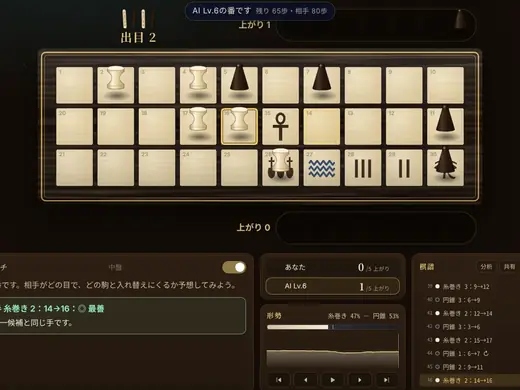
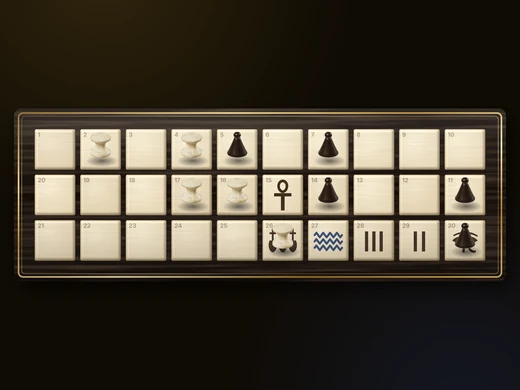
Portal 3D: light depth of field beyond the board (PC); Senet game-list thumbnail = board only; addendum: update top-page and game-list shots together
Claude-Session: https://claude.ai/code/session_019p8B6UWR1udoEs1Nsr5TaD

diff --git a/atlas/table3d.js b/atlas/table3d.js
@@ -1884,7 +1884,65 @@
       quietKey = kq; dirty = false;
     } else if (!moving && !dirty && now > kickUntil) return more();   // nothing changed: no frame (the showcase's turntable counts as moving)
     R.render(scene, cam); lastDraw = now; if (now > kickUntil) dirty = false;
+    if (DOF_OK && mode === 'view' && !museumOn && !quietOn) dof();
     return more();
+  }
+  /* ---------- a light depth of field (PC, the portal's room): what lies beyond the board goes softly out of focus ----------
+     No second scene render: the finished frame is copied (copyFramebufferToTexture), blurred at half size in two passes
+     (9 taps each) and laid back over the frame with a mask — clear on the board and in front of it, blurring in above the
+     board's far edge (farther away in this slanted view) and a little toward the sides. Costs a copy and three cheap
+     full-screen passes on the frames that are drawn anyway (the renderer stays on demand). Off on touch / lite devices. */
+  const DOF_OK = !COARSE && !LITE && !/[?&]nodof\b/.test(location.search);
+  let dofS = null;
+  function dofInit(w, h) {
+    const TT = T();
+    if (dofS && dofS.w === w && dofS.h === h) return dofS;
+    if (dofS) { dofS.tex.dispose(); dofS.a.dispose(); dofS.b.dispose(); }
+    const tex = new TT.DataTexture(null, w, h, TT.RGBAFormat); tex.minFilter = tex.magFilter = TT.LinearFilter; tex.generateMipmaps = false;
+    const o = { minFilter: TT.LinearFilter, magFilter: TT.LinearFilter, depthBuffer: false, stencilBuffer: false };
+    const hw = Math.max(1, w >> 1), hh = Math.max(1, h >> 1), a = new TT.WebGLRenderTarget(hw, hh, o), b = new TT.WebGLRenderTarget(hw, hh, o);
+    if (!dofS) {
+      const vs = 'varying vec2 vUv; void main(){ vUv = uv; gl_Position = vec4(position.xy, 0., 1.); }';
+      const blur = new TT.ShaderMaterial({ uniforms: { t: { value: null }, d: { value: new TT.Vector2() } }, vertexShader: vs, depthTest: false, depthWrite: false,
+        fragmentShader: 'uniform sampler2D t; uniform vec2 d; varying vec2 vUv; void main(){ vec4 c = texture2D(t, vUv) * .2270; '
+          + 'c += (texture2D(t, vUv + d * 1.3846) + texture2D(t, vUv - d * 1.3846)) * .3162; c += (texture2D(t, vUv + d * 3.2308) + texture2D(t, vUv - d * 3.2308)) * .0703; gl_FragColor = c; }' });
+      const mix = new TT.ShaderMaterial({ uniforms: { t: { value: null }, top: { value: .6 }, cx: { value: 0 }, amt: { value: .85 } }, vertexShader: vs, depthTest: false, depthWrite: false, transparent: true,
+        fragmentShader: 'uniform sampler2D t; uniform float top, cx, amt; varying vec2 vUv; void main(){ vec2 p = vUv * 2. - 1.; '
+          + 'float m = smoothstep(top - .06, top + .34, p.y);'                       // above the board's far edge
+          + 'm = max(m, smoothstep(.62, 1.05, abs(p.x - cx)) * .55 * smoothstep(top - .9, top, p.y));'   // a little toward the far sides
+          + 'gl_FragColor = vec4(texture2D(t, vUv).rgb, m * amt); }' });
+      blur.toneMapped = mix.toneMapped = false;
+      const quad = new TT.Mesh(new TT.PlaneGeometry(2, 2), blur); quad.frustumCulled = false;
+      const qs = new TT.Scene(); qs.add(quad);
+      dofS = { blur, mix, quad, qs, qc: new TT.OrthographicCamera(-1, 1, 1, -1, 0, 1), box: new TT.Box3(), v: new TT.Vector3() };
+    }
+    Object.assign(dofS, { w, h, tex, a, b });
+    return dofS;
+  }
+  const _dsz = { x: 0, y: 0 };
+  function dof() {
+    try {
+      const TT = T(), sz = R.getDrawingBufferSize(new TT.Vector2()), w = sz.x, h = sz.y; if (w < 8 || h < 8) return;
+      const D = dofInit(w, h);
+      // the board's far edge on screen (NDC y): the focus ends there
+      let top = .55, cx = 0;
+      if (cur) {
+        D.box.setFromObject(cur); if (!D.box.isEmpty()) {
+          let y1 = -2, x0 = 2, x1 = -2;
+          for (let i = 0; i < 8; i++) { D.v.set(i & 1 ? D.box.max.x : D.box.min.x, i & 2 ? D.box.max.y : D.box.min.y, i & 4 ? D.box.max.z : D.box.min.z).project(cam); y1 = Math.max(y1, D.v.y); x0 = Math.min(x0, D.v.x); x1 = Math.max(x1, D.v.x); }
+          top = Math.min(.95, Math.max(-.6, y1)); cx = (x0 + x1) / 2;
+        }
+      }
+      R.copyFramebufferToTexture(new TT.Vector2(0, 0), D.tex);
+      const at = R.autoClear, rt = R.getRenderTarget(); R.autoClear = false;
+      D.quad.material = D.blur;
+      D.blur.uniforms.t.value = D.tex; D.blur.uniforms.d.value.set(1.6 / w, 0); R.setRenderTarget(D.a); R.render(D.qs, D.qc);
+      D.blur.uniforms.t.value = D.a.texture; D.blur.uniforms.d.value.set(0, 1.6 / D.a.height); R.setRenderTarget(D.b); R.render(D.qs, D.qc);
+      D.blur.uniforms.t.value = D.b.texture; D.blur.uniforms.d.value.set(1.6 / D.a.width, 0); R.setRenderTarget(D.a); R.render(D.qs, D.qc);   // (a second round: softer, still light)
+      D.blur.uniforms.t.value = D.a.texture; D.blur.uniforms.d.value.set(0, 1.6 / D.a.height); R.setRenderTarget(D.b); R.render(D.qs, D.qc);
+      D.quad.material = D.mix; D.mix.uniforms.t.value = D.b.texture; D.mix.uniforms.top.value = top; D.mix.uniforms.cx.value = cx;
+      R.setRenderTarget(rt); R.render(D.qs, D.qc); R.autoClear = at;
+    } catch (e) { console.warn('[table3d] dof', e); }
   }
   const _fr = { f: null, m: null };
   function tickSeen() {

diff --git a/dots/index.html b/dots/index.html
@@ -2289,7 +2289,7 @@ document.querySelector('#rsResume').onclick = () => { document.querySelector('#r
   const f = document.createElement('link'); f.rel = 'stylesheet'; f.href = 'https://fonts.googleapis.com/css2?family=RocknRoll+One&family=Zen+Maru+Gothic:wght@500;700;900&family=Fredoka:wght@600;700&family=Kalam:wght@400;700&family=Zen+Kurenaido&family=Nanum+Pen+Script&family=Long+Cang&family=Aref+Ruqaa:wght@700&display=swap'; document.head.appendChild(f);   // (Kalam … Aref Ruqaa: the handwritten box initials and tally on the notebook page)
   const load = src => new Promise((res, rej) => { const s = document.createElement('script'); s.src = src; s.onload = res; s.onerror = rej; document.body.appendChild(s); });
   if (window.AtlasLoading) { AtlasLoading.show(); setTimeout(() => AtlasLoading.hide(), 12000); }   // safety net
-  load('https://cdnjs.cloudflare.com/ajax/libs/three.js/r128/three.min.js').then(() => load('../atlas/table3d.js?v=108l14')).then(() => load('../atlas/tables3d.js?v=10l14')).then(() => load('../atlas/skin/common.js?v=30l14')).then(() => load('../atlas/models/dots.js?v=3l14')).then(() => load('../atlas/skin/dots.js?v=7l14'))
+  load('https://cdnjs.cloudflare.com/ajax/libs/three.js/r128/three.min.js').then(() => load('../atlas/table3d.js?v=109l14')).then(() => load('../atlas/tables3d.js?v=10l14')).then(() => load('../atlas/skin/common.js?v=30l14')).then(() => load('../atlas/models/dots.js?v=3l14')).then(() => load('../atlas/skin/dots.js?v=7l14'))
     .catch(() => { document.documentElement.classList.remove('atlas-skin'); if (window.AtlasLoading) AtlasLoading.hide(); });
 })();
 </script>

diff --git a/ur/index.html b/ur/index.html
@@ -1027,7 +1027,7 @@ html:not([lang=ja]):not([lang=zh]):not([lang="zh-TW"]):not([lang=ko]) .result-bi
   const f = document.createElement('link'); f.rel = 'stylesheet'; f.href = 'https://fonts.googleapis.com/css2?family=RocknRoll+One&family=Zen+Maru+Gothic:wght@500;700;900&family=Fredoka:wght@600;700&display=swap'; document.head.appendChild(f);
   const load = src => new Promise((res, rej) => { const s = document.createElement('script'); s.src = src; s.onload = res; s.onerror = rej; document.body.appendChild(s); });
   if (window.AtlasLoading) { AtlasLoading.show(); setTimeout(() => AtlasLoading.hide(), 12000); }   // safety net
-  load('https://cdnjs.cloudflare.com/ajax/libs/three.js/r128/three.min.js').then(() => load('../atlas/table3d.js?v=108l14')).then(() => load('../atlas/tables3d.js?v=10l14')).then(() => load('../atlas/skin/common.js?v=30l14')).then(() => load('../atlas/models/ur-dice.js?v=2l14')).then(() => load('../atlas/models/ur.js?v=3l14')).then(() => load('../atlas/skin/ur.js?v=14l14'))
+  load('https://cdnjs.cloudflare.com/ajax/libs/three.js/r128/three.min.js').then(() => load('../atlas/table3d.js?v=109l14')).then(() => load('../atlas/tables3d.js?v=10l14')).then(() => load('../atlas/skin/common.js?v=30l14')).then(() => load('../atlas/models/ur-dice.js?v=2l14')).then(() => load('../atlas/models/ur.js?v=3l14')).then(() => load('../atlas/skin/ur.js?v=14l14'))
     .catch(() => { const u = new URL(location.href); u.searchParams.delete('skin'); location.replace(u.href); });   // (the 3D files are missing: the plain 2D page)
 })();
 </script>

diff --git a/connect4/index.html b/connect4/index.html
@@ -3329,7 +3329,7 @@ document.addEventListener('keydown', e => {
   const f = document.createElement('link'); f.rel = 'stylesheet'; f.href = 'https://fonts.googleapis.com/css2?family=RocknRoll+One&family=Zen+Maru+Gothic:wght@500;700;900&family=Fredoka:wght@600;700&display=swap'; document.head.appendChild(f);
   const load = src => new Promise((res, rej) => { const s = document.createElement('script'); s.src = src; s.onload = res; s.onerror = rej; document.body.appendChild(s); });
   if (window.AtlasLoading) { AtlasLoading.show(); setTimeout(() => AtlasLoading.hide(), 12000); }   // safety net
-  load('https://cdnjs.cloudflare.com/ajax/libs/three.js/r128/three.min.js').then(() => load('../atlas/table3d.js?v=108l14')).then(() => load('../atlas/tables3d.js?v=10l14')).then(() => load('../atlas/skin/common.js?v=30l14')).then(() => load('../atlas/models/connect4.js?v=3l14')).then(() => load('../atlas/games/connect4-tiles.js?v=1l14')).then(() => load('../atlas/skin/connect4.js?v=6l14'))
+  load('https://cdnjs.cloudflare.com/ajax/libs/three.js/r128/three.min.js').then(() => load('../atlas/table3d.js?v=109l14')).then(() => load('../atlas/tables3d.js?v=10l14')).then(() => load('../atlas/skin/common.js?v=30l14')).then(() => load('../atlas/models/connect4.js?v=3l14')).then(() => load('../atlas/games/connect4-tiles.js?v=1l14')).then(() => load('../atlas/skin/connect4.js?v=6l14'))
     .catch(() => { document.documentElement.classList.remove('atlas-skin'); if (window.AtlasLoading) AtlasLoading.hide(); });
 })();
 </script>

diff --git a/morris/index.html b/morris/index.html
@@ -3772,7 +3772,7 @@ window.addEventListener('resize', () => renderFx());
   const f = document.createElement('link'); f.rel = 'stylesheet'; f.href = 'https://fonts.googleapis.com/css2?family=RocknRoll+One&family=Zen+Maru+Gothic:wght@500;700;900&family=Fredoka:wght@600;700&display=swap'; document.head.appendChild(f);
   const load = src => new Promise((res, rej) => { const s = document.createElement('script'); s.src = src; s.onload = res; s.onerror = rej; document.body.appendChild(s); });
   if (window.AtlasLoading) { AtlasLoading.show(); setTimeout(() => AtlasLoading.hide(), 12000); }   // safety net
-  load('https://cdnjs.cloudflare.com/ajax/libs/three.js/r128/three.min.js').then(() => load('../atlas/table3d.js?v=108l14')).then(() => load('../atlas/tables3d.js?v=10l14')).then(() => load('../atlas/skin/common.js?v=30l14')).then(() => load('../atlas/models/morris.js?v=5l14')).then(() => load('../atlas/games/morris-pieces.js?v=2l14')).then(() => load('../atlas/skin/morris.js?v=6l14'))
+  load('https://cdnjs.cloudflare.com/ajax/libs/three.js/r128/three.min.js').then(() => load('../atlas/table3d.js?v=109l14')).then(() => load('../atlas/tables3d.js?v=10l14')).then(() => load('../atlas/skin/common.js?v=30l14')).then(() => load('../atlas/models/morris.js?v=5l14')).then(() => load('../atlas/games/morris-pieces.js?v=2l14')).then(() => load('../atlas/skin/morris.js?v=6l14'))
     .catch(() => { document.documentElement.classList.remove('atlas-skin'); if (window.AtlasLoading) AtlasLoading.hide(); });
 })();
 </script>

diff --git a/senet/index.html b/senet/index.html
@@ -1018,7 +1018,7 @@ html:not([lang=ja]):not([lang=zh]):not([lang=zh-TW]):not([lang=ko]) .result-big{
   const f = document.createElement('link'); f.rel = 'stylesheet'; f.href = 'https://fonts.googleapis.com/css2?family=RocknRoll+One&family=Zen+Maru+Gothic:wght@500;700;900&family=Fredoka:wght@600;700&display=swap'; document.head.appendChild(f);
   const load = src => new Promise((res, rej) => { const s = document.createElement('script'); s.src = src; s.onload = res; s.onerror = rej; document.body.appendChild(s); });
   if (window.AtlasLoading) { AtlasLoading.show(); setTimeout(() => AtlasLoading.hide(), 12000); }   // safety net
-  load('https://cdnjs.cloudflare.com/ajax/libs/three.js/r128/three.min.js').then(() => load('../atlas/table3d.js?v=108l14')).then(() => load('../atlas/tables3d.js?v=10l14')).then(() => load('../atlas/skin/common.js?v=30l14')).then(() => load('../atlas/models/senet.js?v=5l14')).then(() => load('../atlas/skin/senet.js?v=3l14'))
+  load('https://cdnjs.cloudflare.com/ajax/libs/three.js/r128/three.min.js').then(() => load('../atlas/table3d.js?v=109l14')).then(() => load('../atlas/tables3d.js?v=10l14')).then(() => load('../atlas/skin/common.js?v=30l14')).then(() => load('../atlas/models/senet.js?v=5l14')).then(() => load('../atlas/skin/senet.js?v=3l14'))
     .catch(() => { const u = new URL(location.href); u.searchParams.delete('skin'); location.replace(u.href); });   // (the 3D files are missing: the plain 2D page)
 })();
 </script>

diff --git a/fanorona/index.html b/fanorona/index.html
@@ -1685,7 +1685,7 @@ body.lt-on .reserve .onb.on{border-color:var(--accent);box-shadow:0 0 0 1px var(
   const f = document.createElement('link'); f.rel = 'stylesheet'; f.href = 'https://fonts.googleapis.com/css2?family=RocknRoll+One&family=Zen+Maru+Gothic:wght@500;700;900&family=Fredoka:wght@600;700&display=swap'; document.head.appendChild(f);
   const load = src => new Promise((res, rej) => { const s = document.createElement('script'); s.src = src; s.onload = res; s.onerror = rej; document.body.appendChild(s); });
   if (window.AtlasLoading) { AtlasLoading.show(); setTimeout(() => AtlasLoading.hide(), 12000); }   // safety net
-  load('https://cdnjs.cloudflare.com/ajax/libs/three.js/r128/three.min.js').then(() => load('../atlas/table3d.js?v=108l14')).then(() => load('../atlas/tables3d.js?v=10l14')).then(() => load('../atlas/skin/common.js?v=30l14')).then(() => load('../atlas/models/fanorona.js?v=2l14')).then(() => load('../atlas/skin/fanorona.js?v=6l14'))
+  load('https://cdnjs.cloudflare.com/ajax/libs/three.js/r128/three.min.js').then(() => load('../atlas/table3d.js?v=109l14')).then(() => load('../atlas/tables3d.js?v=10l14')).then(() => load('../atlas/skin/common.js?v=30l14')).then(() => load('../atlas/models/fanorona.js?v=2l14')).then(() => load('../atlas/skin/fanorona.js?v=6l14'))
     .catch(() => { document.documentElement.classList.remove('atlas-skin'); if (window.AtlasLoading) AtlasLoading.hide(); });
 })();
 </script>

diff --git a/mancala/index.html b/mancala/index.html
@@ -1584,7 +1584,7 @@ html[data-sk=ocean] .seed{box-shadow:0 calc(var(--u) * .025) calc(var(--u) * .04
   const f = document.createElement('link'); f.rel = 'stylesheet'; f.href = 'https://fonts.googleapis.com/css2?family=RocknRoll+One&family=Zen+Maru+Gothic:wght@500;700;900&family=Fredoka:wght@600;700&display=swap'; document.head.appendChild(f);
   const load = src => new Promise((res, rej) => { const s = document.createElement('script'); s.src = src; s.onload = res; s.onerror = rej; document.body.appendChild(s); });
   if (window.AtlasLoading) { AtlasLoading.show(); setTimeout(() => AtlasLoading.hide(), 12000); }   // safety net
-  load('https://cdnjs.cloudflare.com/ajax/libs/three.js/r128/three.min.js').then(() => load('../atlas/table3d.js?v=108l14')).then(() => load('../atlas/tables3d.js?v=10l14')).then(() => load('../atlas/skin/common.js?v=30l14')).then(() => load('../atlas/models/mancala.js?v=3l14')).then(() => load('../atlas/skin/mancala.js?v=10l14'))
+  load('https://cdnjs.cloudflare.com/ajax/libs/three.js/r128/three.min.js').then(() => load('../atlas/table3d.js?v=109l14')).then(() => load('../atlas/tables3d.js?v=10l14')).then(() => load('../atlas/skin/common.js?v=30l14')).then(() => load('../atlas/models/mancala.js?v=3l14')).then(() => load('../atlas/skin/mancala.js?v=10l14'))
     .catch(() => { document.documentElement.classList.remove('atlas-skin'); if (window.AtlasLoading) AtlasLoading.hide(); });
 })();
 </script>

diff --git a/gomoku/index.html b/gomoku/index.html
@@ -1441,7 +1441,7 @@ body.skin-ink .st.b{background:radial-gradient(circle at 34% 28%,#8a8f98 0%,#3c4
   const f = document.createElement('link'); f.rel = 'stylesheet'; f.href = 'https://fonts.googleapis.com/css2?family=RocknRoll+One&family=Zen+Maru+Gothic:wght@500;700;900&family=Fredoka:wght@600;700&display=swap'; document.head.appendChild(f);
   const load = src => new Promise((res, rej) => { const s = document.createElement('script'); s.src = src; s.onload = res; s.onerror = rej; document.body.appendChild(s); });
   if (window.AtlasLoading) { AtlasLoading.show(); setTimeout(() => AtlasLoading.hide(), 12000); }   // safety net
-  load('https://cdnjs.cloudflare.com/ajax/libs/three.js/r128/three.min.js').then(() => load('../atlas/table3d.js?v=108l14')).then(() => load('../atlas/tables3d.js?v=10l14')).then(() => load('../atlas/skin/common.js?v=30l14')).then(() => load('../atlas/models/goban.js?v=11l14')).then(() => load('../atlas/skin/gomoku.js?v=4l14'))
+  load('https://cdnjs.cloudflare.com/ajax/libs/three.js/r128/three.min.js').then(() => load('../atlas/table3d.js?v=109l14')).then(() => load('../atlas/tables3d.js?v=10l14')).then(() => load('../atlas/skin/common.js?v=30l14')).then(() => load('../atlas/models/goban.js?v=11l14')).then(() => load('../atlas/skin/gomoku.js?v=4l14'))
     .catch(() => { document.documentElement.classList.remove('atlas-skin'); if (window.AtlasLoading) AtlasLoading.hide(); });
 })();
 </script>

diff --git a/shogi/index.html b/shogi/index.html
@@ -5519,7 +5519,7 @@ if (window.Online && Online.available) setInterval(() => { if (dock.on) chatStar
   const f = document.createElement('link'); f.rel = 'stylesheet'; f.href = 'https://fonts.googleapis.com/css2?family=RocknRoll+One&family=Zen+Maru+Gothic:wght@500;700;900&family=Fredoka:wght@600;700&display=swap'; document.head.appendChild(f);
   const load = src => new Promise((res, rej) => { const s = document.createElement('script'); s.src = src; s.onload = res; s.onerror = rej; document.body.appendChild(s); });
   if (window.AtlasLoading) { AtlasLoading.show(); setTimeout(() => AtlasLoading.hide(), 12000); }   // safety net
-  load('https://cdnjs.cloudflare.com/ajax/libs/three.js/r128/three.min.js').then(() => load('../atlas/table3d.js?v=108l14')).then(() => load('../atlas/tables3d.js?v=10l14')).then(() => load('../atlas/skin/common.js?v=30l14')).then(() => load('../atlas/models/shogi.js?v=22l14')).then(() => load('../atlas/skin/shogi.js?v=13l14'))
+  load('https://cdnjs.cloudflare.com/ajax/libs/three.js/r128/three.min.js').then(() => load('../atlas/table3d.js?v=109l14')).then(() => load('../atlas/tables3d.js?v=10l14')).then(() => load('../atlas/skin/common.js?v=30l14')).then(() => load('../atlas/models/shogi.js?v=22l14')).then(() => load('../atlas/skin/shogi.js?v=13l14'))
     .catch(() => { document.documentElement.classList.remove('atlas-skin'); if (window.AtlasLoading) AtlasLoading.hide(); });
 })();
 </script>

diff --git a/ugolki/index.html b/ugolki/index.html
@@ -1389,7 +1389,7 @@ html:is([data-bd=gzhel],[data-bd=birch]) .reserve .rsv-plate .rsv-w:not(.hot) b{
   const f = document.createElement('link'); f.rel = 'stylesheet'; f.href = 'https://fonts.googleapis.com/css2?family=RocknRoll+One&family=Zen+Maru+Gothic:wght@500;700;900&family=Fredoka:wght@600;700&display=swap'; document.head.appendChild(f);
   const load = src => new Promise((res, rej) => { const s = document.createElement('script'); s.src = src; s.onload = res; s.onerror = rej; document.body.appendChild(s); });
   if (window.AtlasLoading) { AtlasLoading.show(); setTimeout(() => AtlasLoading.hide(), 12000); }   // safety net
-  load('https://cdnjs.cloudflare.com/ajax/libs/three.js/r128/three.min.js').then(() => load('../atlas/table3d.js?v=108l14')).then(() => load('../atlas/tables3d.js?v=10l14')).then(() => load('../atlas/skin/common.js?v=30l14')).then(() => load('../atlas/models/ugolki.js?v=3l14')).then(() => load('../atlas/skin/ugolki.js?v=2l14'))
+  load('https://cdnjs.cloudflare.com/ajax/libs/three.js/r128/three.min.js').then(() => load('../atlas/table3d.js?v=109l14')).then(() => load('../atlas/tables3d.js?v=10l14')).then(() => load('../atlas/skin/common.js?v=30l14')).then(() => load('../atlas/models/ugolki.js?v=3l14')).then(() => load('../atlas/skin/ugolki.js?v=2l14'))
     .catch(() => { document.documentElement.classList.remove('atlas-skin'); if (window.AtlasLoading) AtlasLoading.hide(); });
 })();
 </script>

diff --git a/alquerque/index.html b/alquerque/index.html
@@ -1686,7 +1686,7 @@ window.OL_VARIANTS = ['alq', 'alqf']; window.OL_DB_PREFIX = 'alq/';
   const f = document.createElement('link'); f.rel = 'stylesheet'; f.href = 'https://fonts.googleapis.com/css2?family=RocknRoll+One&family=Zen+Maru+Gothic:wght@500;700;900&family=Fredoka:wght@600;700&display=swap'; document.head.appendChild(f);
   const load = src => new Promise((res, rej) => { const s = document.createElement('script'); s.src = src; s.onload = res; s.onerror = rej; document.body.appendChild(s); });
   if (window.AtlasLoading) { AtlasLoading.show(); setTimeout(() => AtlasLoading.hide(), 12000); }   // safety net
-  load('https://cdnjs.cloudflare.com/ajax/libs/three.js/r128/three.min.js').then(() => load('../atlas/table3d.js?v=108l14')).then(() => load('../atlas/tables3d.js?v=10l14')).then(() => load('../atlas/skin/common.js?v=30l14')).then(() => load('../atlas/models/alquerque.js?v=2l14')).then(() => load('../atlas/skin/fanorona.js?v=6l14'))
+  load('https://cdnjs.cloudflare.com/ajax/libs/three.js/r128/three.min.js').then(() => load('../atlas/table3d.js?v=109l14')).then(() => load('../atlas/tables3d.js?v=10l14')).then(() => load('../atlas/skin/common.js?v=30l14')).then(() => load('../atlas/models/alquerque.js?v=2l14')).then(() => load('../atlas/skin/fanorona.js?v=6l14'))
     .catch(() => { document.documentElement.classList.remove('atlas-skin'); if (window.AtlasLoading) AtlasLoading.hide(); });
 })();
 </script>
